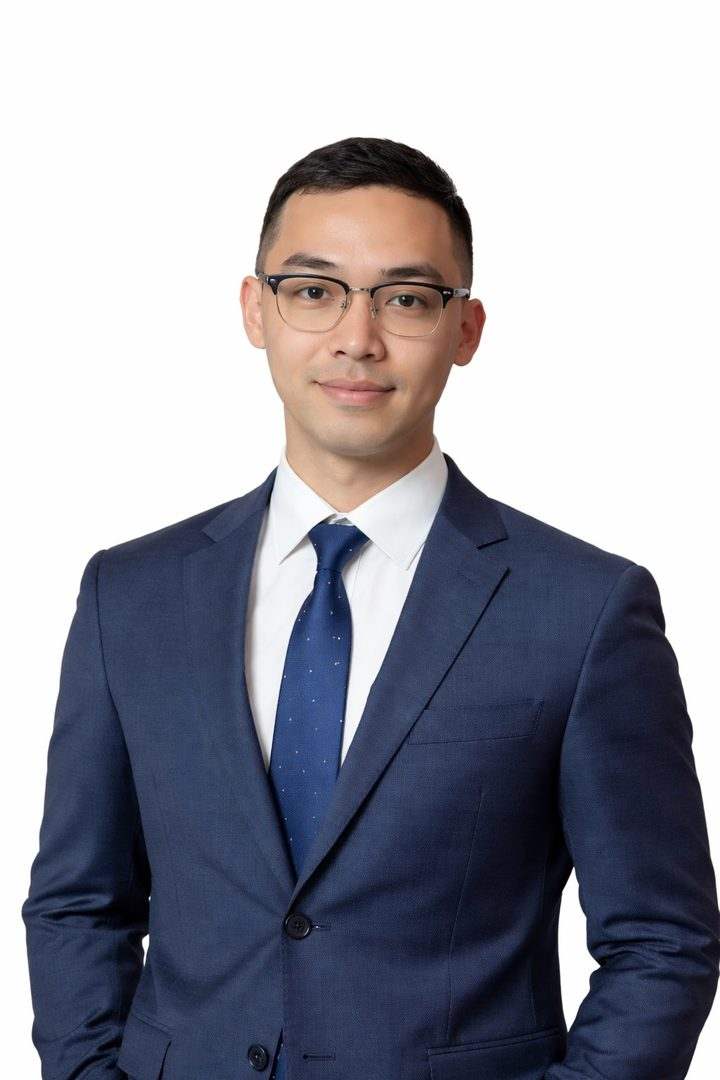
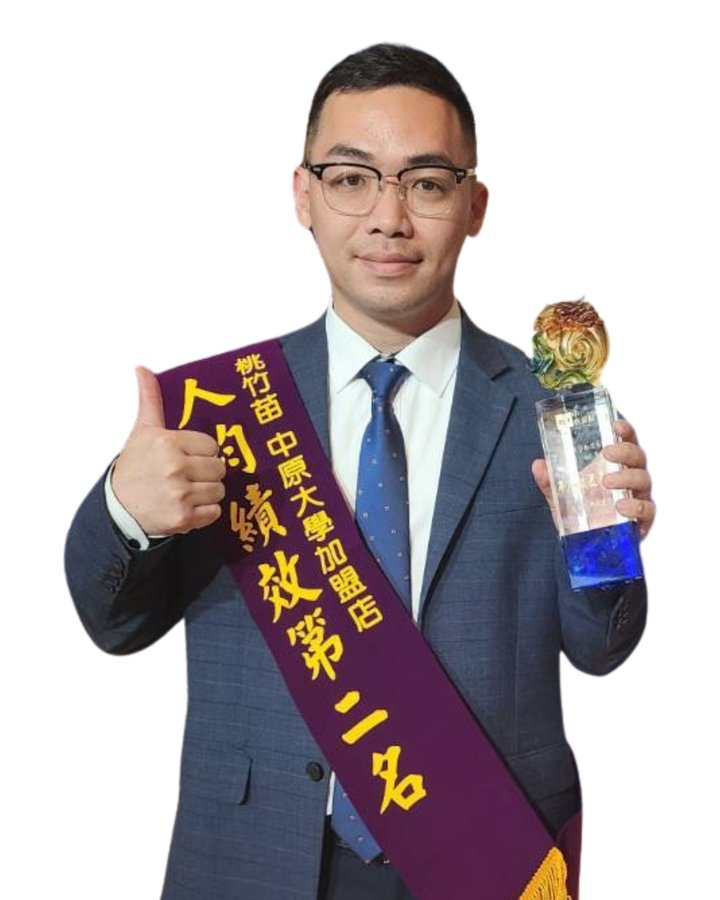
首頁：「關於阿良」換成原始的獎盃照（拿掉 AI 合成照）

diff --git a/index.html b/index.html
@@ -735,8 +735,8 @@ dialog.line-dlg::backdrop { background: rgba(0, 0, 0, .7); backdrop-filter: blur
         <div class="about">
           <div class="about-photo reveal">
             <picture>
-              <source srcset="images/about.webp" type="image/webp">
-              <img src="images/about.jpg" width="720" height="1080" alt="劉益良（阿良）正式形象照" loading="lazy">
+              <source srcset="images/about.webp?v=2" type="image/webp">
+              <img src="images/about.jpg?v=2" width="720" height="900" alt="劉益良（阿良）披綬帶、手持獎盃的照片" loading="lazy">
             </picture>
           </div>
           <div class="about-text reveal">
